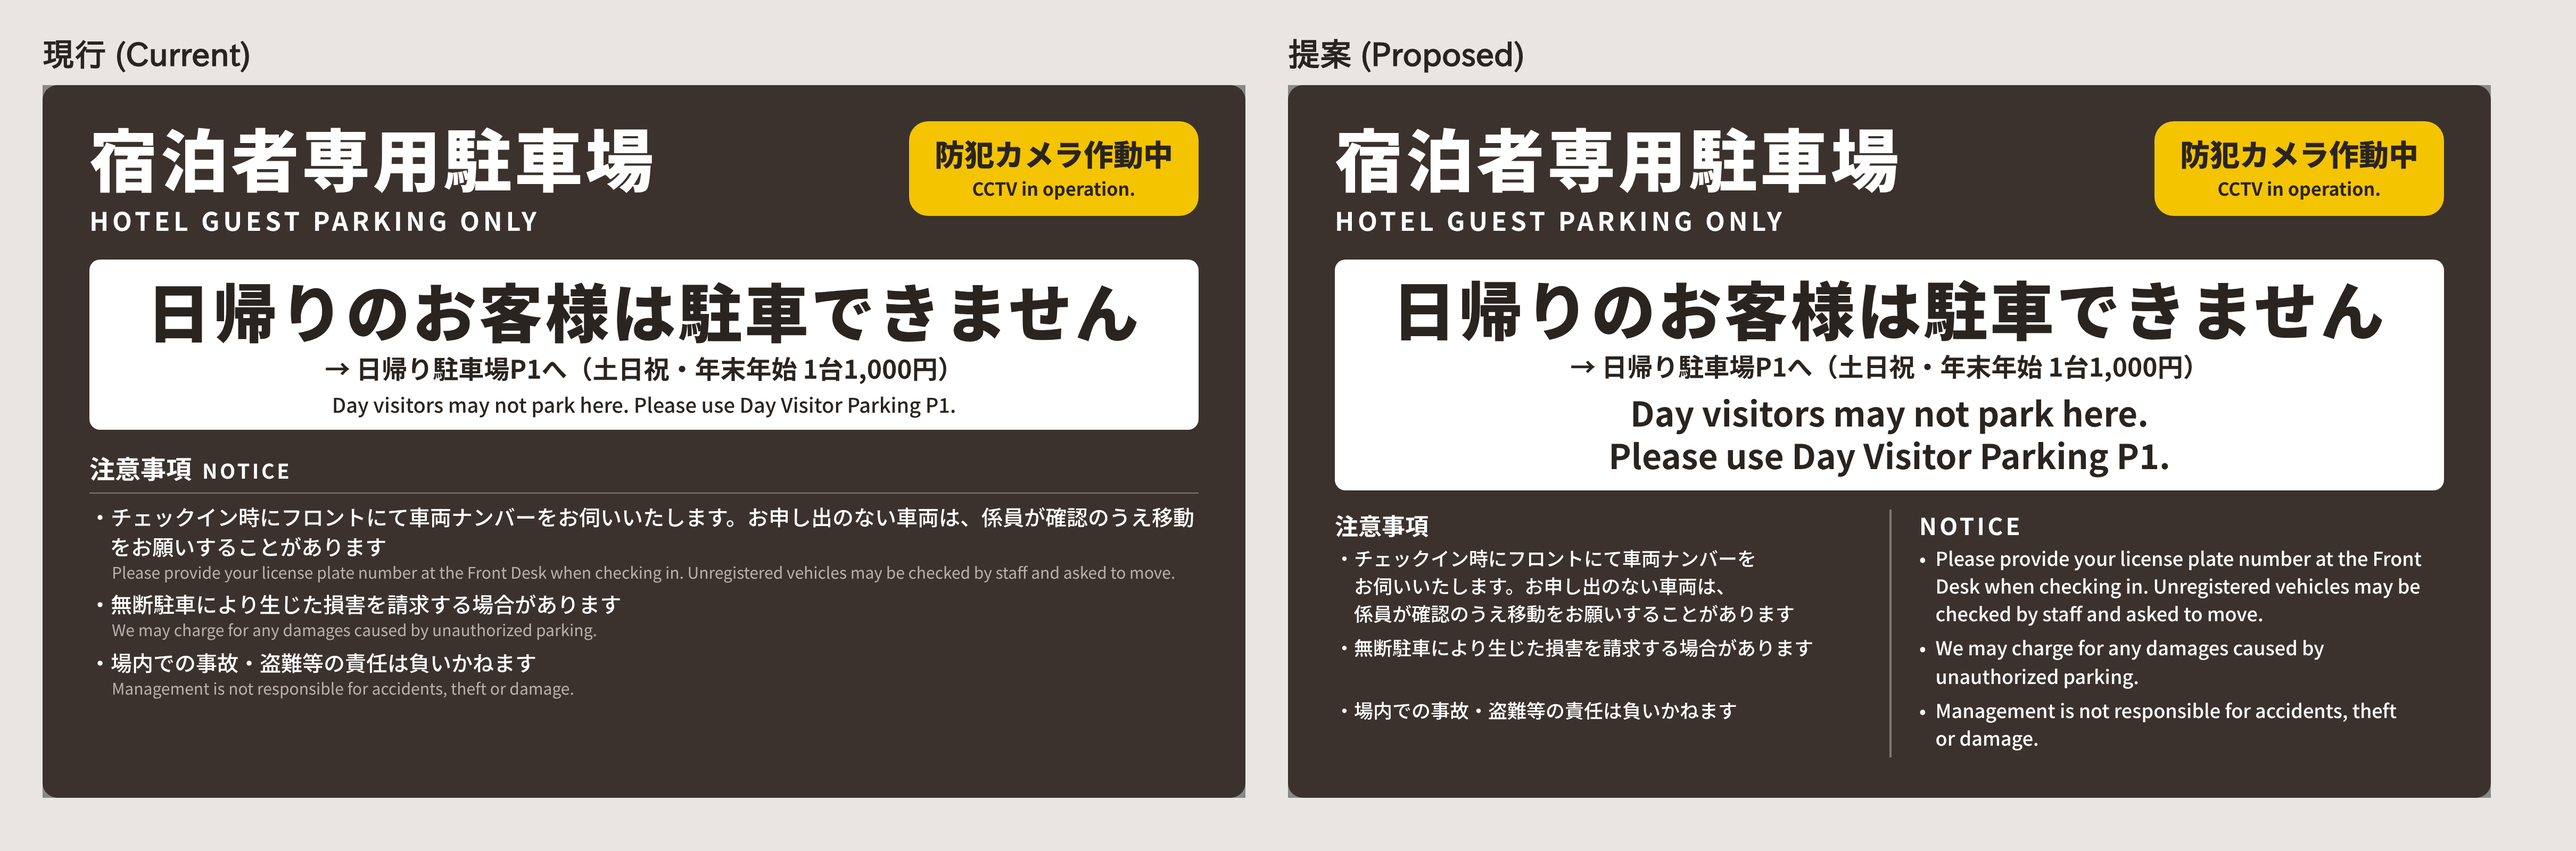
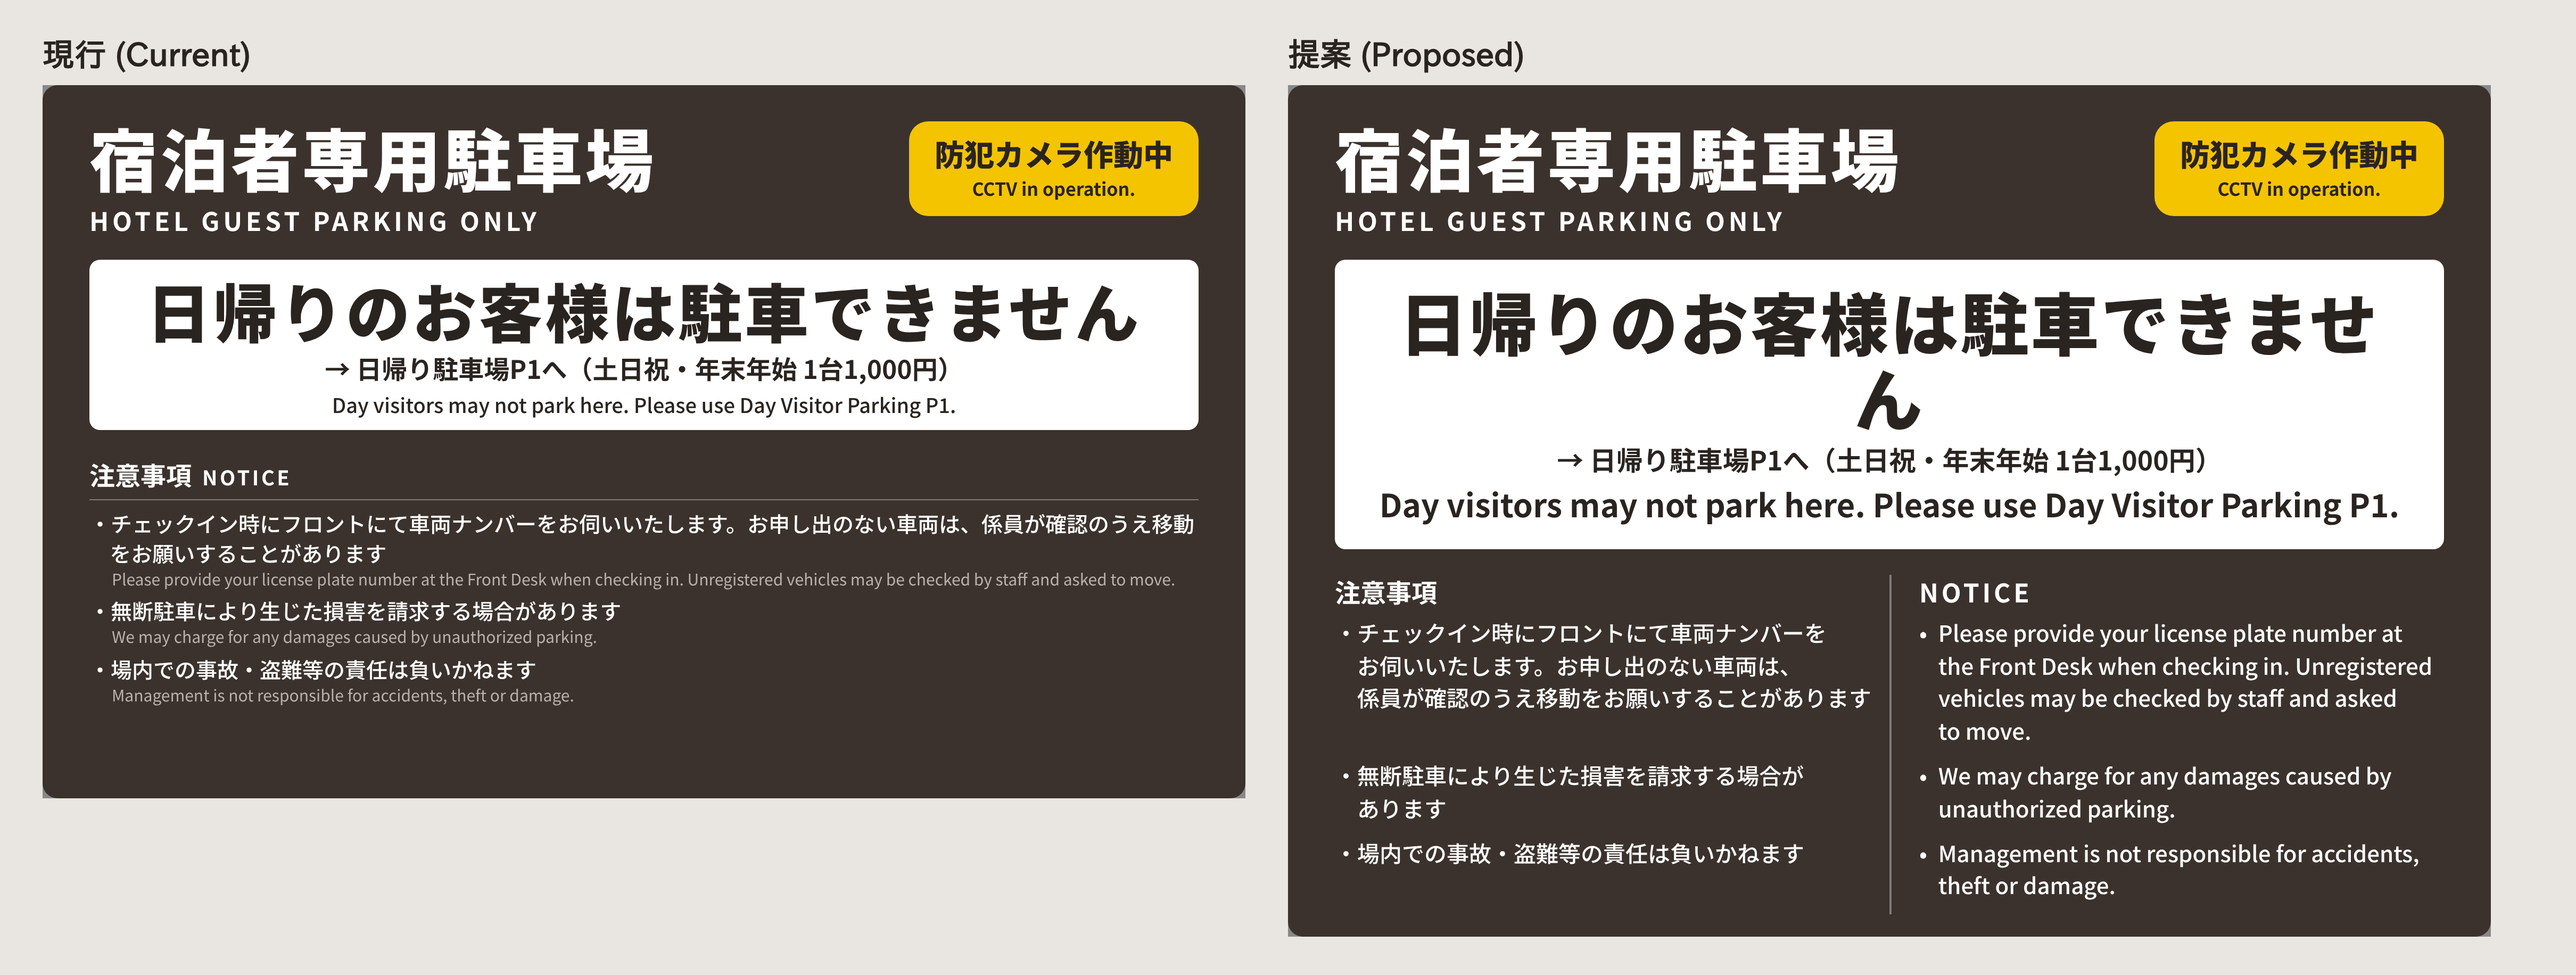
WIP: taller proposed parking signs
Claude-Session: https://claude.ai/code/session_01DHMn3YDqmPdw5TePdDEqum

Changed region(s): [[0.0, 0.0312, 0.9671, 0.9688]]

diff --git a/data/signage/staff_parking_sign_proposed.html b/data/signage/staff_parking_sign_proposed.html
@@ -6,66 +6,42 @@
 <link rel="preconnect" href="https://fonts.googleapis.com">
 <link href="https://fonts.googleapis.com/css2?family=Noto+Sans+JP:wght@400;500;700;900&display=swap" rel="stylesheet">
 <style>
-  :root {
-    --bg: #3b322d;
-    --fg: #ffffff;
-    --yellow: #f5c400;
-    --ink: #2a2420;
-    --rule: rgba(255,255,255,0.35);
-  }
-  * { box-sizing: border-box; margin: 0; padding: 0; }
-  html, body { background: #888; }
-  body { font-family: "Noto Sans JP", "IPAPGothic", "IPAGothic", "WenQuanYi Zen Hei", sans-serif; }
-  .sign {
-    width: 1130px; height: 670px;
-    background: var(--bg); color: var(--fg);
-    padding: 34px 44px 30px;
-    display: flex; flex-direction: column;
-    border-radius: 14px;
-    overflow: hidden;
-  }
-  header { display: flex; justify-content: space-between; align-items: flex-start; }
-  .title-jp { font-size: 64px; font-weight: 900; line-height: 1.05; letter-spacing: 0.04em; }
-  .title-en { font-size: 24px; font-weight: 700; letter-spacing: 0.14em; margin-top: 8px; }
-  .badge {
-    background: var(--yellow); color: var(--ink);
-    border-radius: 18px; padding: 14px 24px; text-align: center;
-  }
-  .badge .jp { font-size: 28px; font-weight: 900; line-height: 1.2; }
-  .badge .en { font-size: 17px; font-weight: 700; margin-top: 2px; }
-  .panel {
-    background: #fff; color: var(--ink);
-    border-radius: 10px; margin-top: 22px;
-    padding: 12px 20px 14px; text-align: center;
-  }
-  .panel .jp { font-size: 76px; font-weight: 900; line-height: 1.1; letter-spacing: 0.06em; }
-  /* English promoted to an equal message: ~2x, bold, still well under the 76px headline */
-  .panel .en { font-size: 32px; font-weight: 700; line-height: 1.25; margin-top: 4px; }
+  :root { --bg:#3b322d; --fg:#ffffff; --yellow:#f5c400; --ink:#2a2420; --grey:#b9b1aa; --rule:rgba(255,255,255,0.35); }
+  * { box-sizing:border-box; margin:0; padding:0; }
+  html, body { background:#888; }
+  body { font-family:"Noto Sans JP","IPAPGothic","IPAGothic","WenQuanYi Zen Hei",sans-serif; }
+  .sign { width:1130px; height:670px; background:var(--bg); color:var(--fg); padding:34px 44px 30px;
+          display:flex; flex-direction:column; border-radius:14px; overflow:hidden; }
+  header { display:flex; justify-content:space-between; align-items:flex-start; }
+  .title-jp { font-size:64px; font-weight:900; line-height:1.05; letter-spacing:0.04em; }
+  .title-en { font-size:24px; font-weight:700; letter-spacing:0.14em; margin-top:8px; }
+  .badge { background:var(--yellow); color:var(--ink); border-radius:18px; padding:14px 24px; text-align:center; }
+  .badge .jp { font-size:28px; font-weight:900; line-height:1.2; }
+  .badge .en { font-size:17px; font-weight:700; margin-top:2px; }
+  .panel { background:#fff; color:var(--ink); border-radius:10px; margin-top:20px; padding:14px 20px 12px; text-align:center; }
+  .panel .jp { font-size:60px; font-weight:900; line-height:1.1; letter-spacing:0.04em; }
+  .panel .sub { font-size:24px; font-weight:700; line-height:1.35; margin-top:6px; }
+  .panel .en { font-size:19px; font-weight:500; line-height:1.35; margin-top:4px; }
 
-  /* NOTICE: two equal columns. Grid rows keep each JP bullet level with its EN counterpart. */
-  .notice {
-    margin-top: 26px;
-    display: grid;
-    grid-template-columns: minmax(0,1fr) minmax(0,1fr);
-    column-gap: 0;
-    row-gap: 0;
-  }
-  .notice > * { padding: 0 26px; }
-  .notice > .jp { padding-left: 0; padding-right: 18px; }
-  .notice p.jp { white-space: nowrap; } /* explicit phrase breaks for signage */
-  .notice > .en { padding-right: 0; border-left: 2px solid var(--rule); }
-  .notice h2 {
-    font-size: 25px; font-weight: 700; line-height: 1.3;
-    padding-bottom: 12px;
-  }
-  .notice h2.en { letter-spacing: 0.12em; }
-  .notice p {
-    font-size: 20px; font-weight: 500; line-height: 1.5;
-    padding-bottom: 12px;
-  }
-  .notice p.jp { padding-left: 1em; text-indent: -1em; }
-  .notice p.en { text-indent: -0.85em; padding-left: calc(26px + 0.85em); }
-  .notice p.en::before { content: "•"; display: inline-block; width: 0.85em; text-indent: 0; }
+  /* Proposed: taller canvas (Sho, 3rd round); extra height spent on legibility. */
+  .sign { height:800px; }
+  .panel .jp { font-size:64px; letter-spacing:0.03em; }
+  .panel .sub { font-size:25px; margin-top:8px; }
+  /* Panel English promoted to an equal message (Sho, 2nd round). */
+  .panel { padding:22px 28px 24px; }
+  .panel .en { font-size:30px; font-weight:700; line-height:1.25; margin-top:6px; text-wrap:balance; }
+  /* NOTICE: two equal columns; grid rows keep each JP bullet level with its EN counterpart. */
+  .notice { margin-top:24px; display:grid; grid-template-columns:minmax(0,1fr) minmax(0,1fr); }
+  .notice > * { padding:0 26px; }
+  .notice > .jp { padding-left:0; padding-right:18px; }
+  .notice > .en { padding-right:0; border-left:2px solid var(--rule); }
+  .notice h2 { font-size:24px; font-weight:700; line-height:1.3; padding-bottom:8px; }
+  .notice h2.en { letter-spacing:0.12em; }
+  .notice p { font-size:21px; font-weight:500; line-height:1.45; padding-bottom:12px; }
+  .notice p.jp { padding-left:1em; text-indent:-1em; word-break:auto-phrase; }
+  .notice p.jp.fixed { white-space:nowrap; } /* explicit phrase breaks */
+  .notice p.en { text-indent:-0.85em; padding-left:calc(26px + 0.85em); text-wrap:pretty; }
+  .notice p.en::before { content:"•"; display:inline-block; width:0.85em; text-indent:0; }
 </style>
 </head>
 <body>
@@ -83,20 +59,20 @@
 
   <div class="panel">
     <div class="jp">従業員以外 駐車禁止</div>
-    <div class="en">Staff vehicles only. No public parking.</div>
+    <div class="en" lang="en">Staff vehicles only. No public parking.</div>
   </div>
 
   <section class="notice">
     <h2 class="jp" lang="ja">注意事項</h2>
     <h2 class="en" lang="en">NOTICE</h2>
 
-    <p class="jp" lang="ja">・日帰りのお客様は<br>日帰り駐車場P1をご利用ください</p>
+    <p class="jp fixed" lang="ja">・日帰りのお客様は<br>日帰り駐車場P1をご利用ください</p>
     <p class="en" lang="en">Day visitors, please use Day Visitor Parking P1.</p>
 
-    <p class="jp" lang="ja">・無断駐車により生じた損害（駐車料金相当額等）を<br>請求する場合があります</p>
+    <p class="jp fixed" lang="ja">・無断駐車により生じた損害（駐車料金相当額等）を<br>請求する場合があります</p>
     <p class="en" lang="en">We may charge for any damages caused by unauthorized parking.</p>
 
-    <p class="jp" lang="ja">・繰り返し無断駐車をされた場合、リフト券の<br>利用停止や施設のご利用をお断りすることがあります</p>
+    <p class="jp fixed" lang="ja">・繰り返し無断駐車をされた場合、リフト券の<br>利用停止や施設のご利用をお断りすることがあります</p>
     <p class="en" lang="en">Repeat violators may be refused lift and facility&nbsp;use.</p>
   </section>
 </div>

diff --git a/data/signage/hotel_guest_parking_sign_proposed.html b/data/signage/hotel_guest_parking_sign_proposed.html
@@ -23,17 +23,21 @@
   .panel .sub { font-size:24px; font-weight:700; line-height:1.35; margin-top:6px; }
   .panel .en { font-size:19px; font-weight:500; line-height:1.35; margin-top:4px; }
 
+  /* Proposed: taller canvas (Sho, 3rd round); extra height spent on legibility. */
+  .sign { height:800px; }
+  .panel .jp { font-size:64px; letter-spacing:0.03em; }
+  .panel .sub { font-size:25px; margin-top:8px; }
   /* Panel English promoted to an equal message (Sho, 2nd round). */
-  .panel { padding:12px 24px 14px; }
-  .panel .en { font-size:32px; font-weight:700; line-height:1.25; margin-top:6px; text-wrap:balance; }
+  .panel { padding:22px 28px 24px; }
+  .panel .en { font-size:30px; font-weight:700; line-height:1.25; margin-top:6px; text-wrap:balance; }
   /* NOTICE: two equal columns; grid rows keep each JP bullet level with its EN counterpart. */
-  .notice { margin-top:18px; display:grid; grid-template-columns:minmax(0,1fr) minmax(0,1fr); }
+  .notice { margin-top:24px; display:grid; grid-template-columns:minmax(0,1fr) minmax(0,1fr); }
   .notice > * { padding:0 26px; }
   .notice > .jp { padding-left:0; padding-right:18px; }
   .notice > .en { padding-right:0; border-left:2px solid var(--rule); }
-  .notice h2 { font-size:22px; font-weight:700; line-height:1.3; padding-bottom:4px; }
+  .notice h2 { font-size:24px; font-weight:700; line-height:1.3; padding-bottom:8px; }
   .notice h2.en { letter-spacing:0.12em; }
-  .notice p { font-size:18px; font-weight:500; line-height:1.45; padding-bottom:6px; }
+  .notice p { font-size:21px; font-weight:500; line-height:1.45; padding-bottom:12px; }
   .notice p.jp { padding-left:1em; text-indent:-1em; word-break:auto-phrase; }
   .notice p.jp.fixed { white-space:nowrap; } /* explicit phrase breaks */
   .notice p.en { text-indent:-0.85em; padding-left:calc(26px + 0.85em); text-wrap:pretty; }

diff --git a/data/signage/day_visitor_parking_sign_proposed.html b/data/signage/day_visitor_parking_sign_proposed.html
@@ -23,17 +23,21 @@
   .panel .sub { font-size:24px; font-weight:700; line-height:1.35; margin-top:6px; }
   .panel .en { font-size:19px; font-weight:500; line-height:1.35; margin-top:4px; }
 
+  /* Proposed: taller canvas (Sho, 3rd round); extra height spent on legibility. */
+  .sign { height:800px; }
+  .panel .jp { font-size:64px; letter-spacing:0.03em; }
+  .panel .sub { font-size:25px; margin-top:8px; }
   /* Panel English promoted to an equal message (Sho, 2nd round). */
-  .panel { padding:12px 24px 14px; }
+  .panel { padding:22px 28px 24px; }
   .panel .en { font-size:30px; font-weight:700; line-height:1.25; margin-top:6px; text-wrap:balance; }
   /* NOTICE: two equal columns; grid rows keep each JP bullet level with its EN counterpart. */
-  .notice { margin-top:18px; display:grid; grid-template-columns:minmax(0,1fr) minmax(0,1fr); }
+  .notice { margin-top:24px; display:grid; grid-template-columns:minmax(0,1fr) minmax(0,1fr); }
   .notice > * { padding:0 26px; }
   .notice > .jp { padding-left:0; padding-right:18px; }
   .notice > .en { padding-right:0; border-left:2px solid var(--rule); }
-  .notice h2 { font-size:22px; font-weight:700; line-height:1.3; padding-bottom:6px; }
+  .notice h2 { font-size:24px; font-weight:700; line-height:1.3; padding-bottom:8px; }
   .notice h2.en { letter-spacing:0.12em; }
-  .notice p { font-size:17px; font-weight:500; line-height:1.45; padding-bottom:6px; }
+  .notice p { font-size:21px; font-weight:500; line-height:1.45; padding-bottom:12px; }
   .notice p.jp { padding-left:1em; text-indent:-1em; word-break:auto-phrase; }
   .notice p.jp.fixed { white-space:nowrap; } /* explicit phrase breaks */
   .notice p.en { text-indent:-0.85em; padding-left:calc(26px + 0.85em); text-wrap:pretty; }

diff --git a/data/signage/day_visitor_parking_sign_current.html b/data/signage/day_visitor_parking_sign_current.html
@@ -23,7 +23,7 @@
   .panel .sub { font-size:24px; font-weight:700; line-height:1.35; margin-top:6px; }
   .panel .en { font-size:19px; font-weight:500; line-height:1.35; margin-top:4px; }
 
-  .notice { margin-top:18px; }
+  .notice { margin-top:24px; }
   .notice h2 { font-size:24px; font-weight:700; padding-bottom:6px; border-bottom:1px solid var(--rule); margin-bottom:6px; }
   .notice h2 span { font-size:19px; letter-spacing:0.12em; margin-left:10px; }
   .notice ul { list-style:none; }

diff --git a/data/signage/hotel_guest_parking_sign_current.html b/data/signage/hotel_guest_parking_sign_current.html
@@ -23,7 +23,7 @@
   .panel .sub { font-size:24px; font-weight:700; line-height:1.35; margin-top:6px; }
   .panel .en { font-size:19px; font-weight:500; line-height:1.35; margin-top:4px; }
 
-  .notice { margin-top:18px; }
+  .notice { margin-top:24px; }
   .notice h2 { font-size:24px; font-weight:700; padding-bottom:6px; border-bottom:1px solid var(--rule); margin-bottom:8px; }
   .notice h2 span { font-size:19px; letter-spacing:0.12em; margin-left:10px; }
   .notice ul { list-style:none; }
